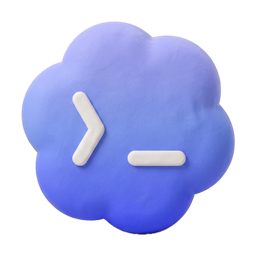
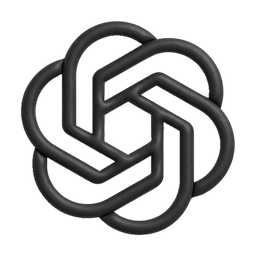
Codex's coin is OpenAI's knot in charcoal clay; Android decisions settled; site and docs offer the APK
- Codex: OpenAI's six-band knot (the author's call) replaces the cloud; master, every size, LOGOS.
- D178, D181, D182 settled (按建议: notifications wait, 以后再说 holds three days, the release
  key made once). The release keystore is in GitHub secrets; ANDROID_CERT_SHA256 is set.
- The site links the latest release's -android.apk when there is one, else keeps 'coming soon';
  README and docs say how to get the app.

diff --git a/apps/site/src/lib/github.ts b/apps/site/src/lib/github.ts
@@ -9,6 +9,8 @@ export interface RepoFacts {
   isPublic: boolean;
   /** Direct link to the latest release's .dmg, if a release with one exists. */
   dmgUrl: string | null;
+  /** Direct link to the latest release's Android app (Ducter-<v>-android.apk, D181), if it has one. */
+  apkUrl: string | null;
   version: string | null;
 }
 
@@ -25,13 +27,14 @@ async function get(url: string): Promise<any | null> {
 let cached: Promise<RepoFacts> | null = null;
 export function repoFacts(): Promise<RepoFacts> {
   cached ??= (async () => {
-    if (process.env.DUCTER_SITE_OFFLINE) return { isPublic: false, dmgUrl: null, version: null };
+    if (process.env.DUCTER_SITE_OFFLINE) return { isPublic: false, dmgUrl: null, apkUrl: null, version: null };
     const repo = await get(`https://api.github.com/repos/${REPO}`);
     const isPublic = !!repo && repo.private === false;
-    if (!isPublic) return { isPublic, dmgUrl: null, version: null };
+    if (!isPublic) return { isPublic, dmgUrl: null, apkUrl: null, version: null };
     const rel = await get(`https://api.github.com/repos/${REPO}/releases/latest`);
     const dmg = rel?.assets?.find((a: any) => typeof a?.name === "string" && a.name.endsWith(".dmg"));
-    return { isPublic, dmgUrl: dmg?.browser_download_url ?? null, version: rel?.tag_name ?? null };
+    const apk = rel?.assets?.find((a: any) => typeof a?.name === "string" && a.name.endsWith("-android.apk"));
+    return { isPublic, dmgUrl: dmg?.browser_download_url ?? null, apkUrl: apk?.browser_download_url ?? null, version: rel?.tag_name ?? null };
   })();
   return cached;
 }

diff --git a/tools/art/coins.py b/tools/art/coins.py
@@ -3,7 +3,7 @@
 
 A coin is not a disc with a logo printed on it: it is the agent's mark itself made as a small
 puffy clay object, in the same clay, light and camera as the rest of Ducter's art: Claude Code's
-starburst, Codex's cloud with its prompt, DeepSeek's whale, pi's blocks. The renders come from
+starburst, Codex's OpenAI knot, DeepSeek's whale, pi's blocks. The renders come from
 the clay pipeline (design/art/assets/prompts/_style_coins.md + coin_<id>.md, the official mark
 as a reference image), are cut out (design/art/assets/tools/cut.swift) and kept as masters in
 design/art/assets/alpha/coin_<id>.png. This script makes every size the apps load from them.

diff --git a/design/decisions.md b/design/decisions.md
@@ -484,11 +484,11 @@ DRAFT, for the author's review.
 | D175 | **The six calls of research/48 §4, decided with their proposed defaults** (the author: "仔细按建议推进"). (1) **One secret detector** (F7): what reaches a task and what renders find keys with one implementation (`redactWith` in `packages/protocol/src/redact.ts`); the brief guard is stricter (a long key with no digit counts too) and keeps exactly one kind of key: a Nowledge Mem connect code (`nmem_ct_…`) the user pasted in their own words that turn, as D152's scenario needs. Any other pasted key, a JWT, a bearer token, a password in a URL or `token=…` becomes **[secret removed …]** in the brief and in `task_send`. Guard: `packages/partner/test/secrets.test.ts` (every fixture key the screens hide is gone from a brief; the partner keeps no list of its own). (2) **Live re-verify Claude Code 2.1.322 and pi 1.5.1** against D135's checks with the cheapest model, on scratch state; `verified` is widened only for what passes (research/48 addendum). (3) **Tool-less one-shots** (F8): the judge and the digest writer run with no tools at all through a SessionSpec switch the adapter maps per harness, after one measured cheap call each. (4) **A persona or partner-tool change carries a fresh eval result** (F6): the eval gains W1–W6 (where / needs), `rule_save`, connections, browser tasks, `notice_rule` and Bridge X1 (fake Bridge) scenarios; one haiku run's results file is committed; the rule is in `AGENTS.md` and `design/release/README.md`. (5) **A two-tier partner tool list: not now**; revisit when the list passes 30 tools or 32K chars (`todo.md`; the G2 ceiling forces the conversation). (6) **Principle 17 reads "Mem writes Ducter itself makes"**: task sessions now write through the user's own plugin (D168), which records its own `source_app`; a todo asks Mem for orchestrator attribution on plugin writes. | U (2026-11-10), research/48 §4 | `packages/protocol/src/redact.ts`, `packages/partner/src/partner.ts`; the rest as each part lands (research/48 addendum) |
 | D176 | **The iPhone app is one universal app for iPhone, iPad and iPhone Duo, and the client lays itself out from the width it has, never from the device.** (the author: "TestFlight app 不支持 iPad 和 iPhone duo，你能支持一下么"). (1) **The app** (`apps/ios`): device family iPhone + iPad (the app and DucterNotify); iPad in all four orientations, iPhone in portrait and both landscapes; no `UIRequiresFullScreen`, so Split View, Slide Over and Stage Manager size it freely; one scene (one web view, one conversation; a second window is not offered); the same icon (Xcode makes the iPad sizes from the one 1024 source); the web view asks for the mobile page on an iPad too (WebKit otherwise asks as a Mac, and pairing named the iPad "Browser"); the connect and can't-reach screens keep a 480-wide column. Rotation and resizing keep the page: same web view, same route, drafts and open sheet. (2) **The client** (`apps/web`): from 1000 CSS px wide (an iPad held across, 1133–1366; a 13" iPad upright, 1024–1032; a wide browser window) two panes: the conversation on the left at its 720 reading measure, and beside it on a hairline On hand, or the task opened from it (40% of the width, 400–560). On hand's header names it (no 回到对话 / Back to the conversation: the conversation never left) and the conversation's 手头的事 button is gone; an opened task goes back to **手头的事 / On hand**. Under 1000, one column at most 640, as on a phone: Split View's thirds, halves and two-thirds, an 11" iPad upright, both displays of iPhone Duo. The page follows `matchMedia` and changes in place. Side safe-area insets are kept (a phone on its side, Duo's vertical bar). From 700 × 640 a sheet stands centered as an iPad form sheet, without its grab. Hover styles also apply with a trackpad (`any-hover`); a touch screen with a trackpad is not "coarse". (3) **Keys:** the Mac's set (D71): ⌘N New task (inside a task, at its place), ⌘1 the conversation, ⌘2 On hand, ⌘3 your devices, ⌘4 the partner, ⌘, Settings, ⌘K the composer of the level shown; in the app as menu commands (the iPad's menu bar and ⌘-hold list) that the page performs (`window.ducterCommand`); Esc goes up one level everywhere (browsers keep their own ⌘ keys). (4) **Words:** on an iPad, 这台手机 / This phone reads **这台 iPad / This iPad**; it pairs as **iPad · Ducter** or **iPad · Safari** (Safari on an iPad asks as a Mac: a Mac with a touch screen is an iPad); its kind is **你的 iPad · 用 Ducter app 连着 / Your iPad · through the Ducter app**. (5) **iPhone Duo** (Apple's foldable, September 2026) shows an app full-screen only when it is built with the iOS 27.1 SDK; older SDKs letterbox it (research/49). CI builds with Xcode 27.1 when the runner has it (`DUCTER_XCODE`), else warns. Not run on a Duo simulator (this Mac has Xcode 26.3). *Recorded as built, for the author's review* | U (2026-11-10), research/49 | `apps/ios` (project.yml, Info.plist, DucterApp.swift, WebShell.swift), `apps/web/src/wide.ts`, `main.tsx`, `views.tsx`, `static/app.css`, `scripts/ci/testflight.sh`, `design/release/ios.md`, `design/ui.md`, `design/product-model.md`, `docs/phone.md` |
 | D177 | **Settled 2026-11-10 (built, measured; the author confirmed the three open calls). pi and DeepSeek Harness may be what the partner thinks with, each holding the read-only partner by its own mechanism, after both passed the full partner eval above the existing partner.** (1) **Read-only, enforced, not asked** (principle 6): pi runs with an allowlist, `--tools read,grep,find,ls,mcp__*` (the pattern keeps OAR's MCP tools; without it they vanish), plus bash/edit/write excluded by name. DeepSeek Harness, which OAR refuses tool denial for and whose partner wrote a file and ran a command when asked (research/50 §2), runs in a Ducter-owned home whose profile layer (`$DSH_HOME/profiles/acp/cordis.patch.yml`, `DSH_PROFILE` in harness-facts) disables every tool row that runs, writes, delegates or plans, keeps `tool-fs`'s `read`, and sets `DSH_PERMISSION_MODE=read-only` underneath; Ducter's MCP tools still answer. The probe fails on a DSH tool row the layer doesn't name. (2) **DSH's prompt is the system prompt**: the layer's `system-prompt` row (`includeHarnessIdentity: false`, `personaPrefix`), not AGENTS.md, which DSH sends as user-message "workspace instructions"; a prompt with `{{` falls back to AGENTS.md. (3) **DSH's compactor** fires at the plan's point as a fraction of the model's 1M window, with `retainTokens` a quarter of it (its default 16% retention at or above the threshold silently rejects the plugin: no compaction at all); tool-less one-shots drop every tool row; the session-log upload to DeepSeek (`dsh_session_log`) is off in Ducter-owned homes, so only the model call leaves. One home per setup (`<dataDir>/harness/dsh/<hash>`), so a session resumes where it was and a one-shot never rewrites the partner's files. A DSH task in the user's own home keeps the user's setup. (4) **pi's window** has no per-session knob; Ducter's re-cut at 120K bounds the partner (pi reports its context every turn). (5) **The eval** (74 scenarios, haiku judge, same persona): DeepSeek Harness + deepseek-flash 68/74, pi + deepseek/deepseek-flash 62/74, Claude Code + haiku 52/74 (LATEST), safety 4/4 and honesty 3/3 on all three; the eval now counts a tool call from its end event when it had no streamed head (rule_save and notice_rule were never counted on any harness before). (6) **Persona:** rule 1 gains "what a site or the web says now … is never a quick fact: it is a look-up, never said from memory" (all three answered "the latest Bun version" unseen before; DSH and pi no longer do). (7) **Models offered:** DeepSeek's `deepseek-v4-pro` (smart) and `deepseek-flash` (fast) on both, on pi only when pi lists them. (8) **The fallback brain** (amends D150 (4)): with nothing chosen and Claude Code not signed in on the home, the first signed-in of Codex, DeepSeek Harness, pi (`PARTNER_FALLBACK`; a plan before a key paid by use, then by the eval). Codex keeps **自动选的：只有 Codex 登录了**; another agent says **自动选的：Claude Code 没登录 / Picked for you: Claude Code isn't signed in** (`why: "only_signed_in"`), which stays true when several are signed in. (9) **Keys unchanged (D102):** pi on DeepSeek signs in with its own `/login`; the DeepSeek key in `keys.env` still reaches DeepSeek Harness only. (10) **Versions:** DSH 0.2.2-rc.1 verified; a version keeps its prerelease tag and orders before its release. **The author's three calls:** (a) **No shared DeepSeek key** (D102 holds): each agent keeps the sign-in it owns, so revoking or rotating one never silently breaks the other, and a key Ducter holds reaches exactly one program. (b) **DSH's session-log upload stays off, with no setting**: the partner reads the user's accounts, memory and conversations; sending the whole log to a third party beyond the model call buys the user nothing and spends trust (放心), and a switch would be a concept to learn for no gain. (c) **Fallback order Codex, DeepSeek Harness, pi**: a flat subscription before a key paid per use (no cost surprise), then the eval (68 over 62); a home with only a DeepSeek key still gets a partner instead of none, and the reason line says it was picked | U (the request), L (research/50) | `packages/protocol/src/{harnesses,harness-facts,index,internal}.ts`, `packages/runner/src/oar.ts`, `packages/core/src/{brain,candidates,core}.ts`, `packages/partner/src/persona.ts`, `packages/partner/eval/run.ts`, `scripts/probe-harnesses.ts`, `apps/web/src/{views.tsx,i18n.ts}`, `apps/desktop/internal/{views/loadout.go,i18n/settings.go,protocol/protocol.go}`, tests, `design/system.md`, `design/harnesses.md`, `design/conversation.md`, `design/product-model.md`, `docs/settings.md`, `docs/faq.md`, `CHANGELOG.md` |
-| D178 | **Draft for review (built, verified in a foldable emulator). The Android app is a thin native shell around the page, the iPhone app's shape on Android: Kotlin and the system WebView, no Expo, Tauri or TWA.** (1) **Why:** the client is one page (`apps/web`) that the iPhone app already hosts; a native UI (Lorca's Expo app) would duplicate it, a WebView inside React Native or Tauri adds a JS or Rust toolchain for nothing the page lacks, and a Trusted Web Activity needs Chrome (absent on many phones sold in China), asset links on every home's own origin and has no bridge (research/51 §3). (2) **What the app adds, and only that:** the connect screen (scan the `ducter pair` QR code with zxing, paste a link, or type address and code; the iPhone app's words), connecting / can't-reach screens with the partner, the page edge to edge with its `--safe-*` variables set from Android's insets, the keyboard shrinking the page so the composer stays above it, Back going up the page's history, links that aren't this Ducter opening outside, haptics, dark mode from the system, and the bridge: `window.ducterNative = {platform: "android", version, appId}` and `window.ducterBridge.postMessage(m) → Promise`, both limited to the paired home's origin (`WebViewCompat.addWebMessageListener` + a document-start script), the same messages as iOS (`hello`, `haptic`, `push.*`, plus `update.check`). (3) **Ids:** `co.nowledge.ducter.android` (`.dev` for debug builds, which sit beside it); minSdk 26, target/compile 36; one universal APK (no native code; 2.9 MB). It pairs as **Android phone · Ducter**; its device card says **你的安卓手机 · 用 Ducter app 连着 / Your Android phone · through the Ducter app**. (4) **Not recreated** by turning, folding, unfolding or resizing (it declares those changes), so the page keeps what you typed, the route and the open sheet; light/dark does recreate it. (5) **The lesson the iPhone app taught:** the shell loads the page from the home, so an app newer than its home shows the home's older page: everything the app must say without the page (connect, can't reach, an update) is native. | U, R51 | `apps/android`, `design/android.md`, `apps/web/src/native.ts`, `design/release/android.md`, `docs/phone.md` |
+| D178 | **Settled 2026-11-10 (the author: 按建议; built, verified in a foldable emulator). The Android app is a thin native shell around the page, the iPhone app's shape on Android: Kotlin and the system WebView, no Expo, Tauri or TWA.** (1) **Why:** the client is one page (`apps/web`) that the iPhone app already hosts; a native UI (Lorca's Expo app) would duplicate it, a WebView inside React Native or Tauri adds a JS or Rust toolchain for nothing the page lacks, and a Trusted Web Activity needs Chrome (absent on many phones sold in China), asset links on every home's own origin and has no bridge (research/51 §3). (2) **What the app adds, and only that:** the connect screen (scan the `ducter pair` QR code with zxing, paste a link, or type address and code; the iPhone app's words), connecting / can't-reach screens with the partner, the page edge to edge with its `--safe-*` variables set from Android's insets, the keyboard shrinking the page so the composer stays above it, Back going up the page's history, links that aren't this Ducter opening outside, haptics, dark mode from the system, and the bridge: `window.ducterNative = {platform: "android", version, appId}` and `window.ducterBridge.postMessage(m) → Promise`, both limited to the paired home's origin (`WebViewCompat.addWebMessageListener` + a document-start script), the same messages as iOS (`hello`, `haptic`, `push.*`, plus `update.check`). (3) **Ids:** `co.nowledge.ducter.android` (`.dev` for debug builds, which sit beside it); minSdk 26, target/compile 36; one universal APK (no native code; 2.9 MB). It pairs as **Android phone · Ducter**; its device card says **你的安卓手机 · 用 Ducter app 连着 / Your Android phone · through the Ducter app**. (4) **Not recreated** by turning, folding, unfolding or resizing (it declares those changes), so the page keeps what you typed, the route and the open sheet; light/dark does recreate it. (5) **The lesson the iPhone app taught:** the shell loads the page from the home, so an app newer than its home shows the home's older page: everything the app must say without the page (connect, can't reach, an update) is native. | U, R51 | `apps/android`, `design/android.md`, `apps/web/src/native.ts`, `design/release/android.md`, `docs/phone.md` |
 | D180 | **A connection's catalog is read from what its tools take, never assumed by name; one Ducter can't read any more becomes a plain MCP server, not a dead one.** OOMOL Hosted renamed its catalog (2026-11: `search_actions` → `connector_search_actions` taking `q`, `get_action_guide` → `connector_get_action` answering `action.operationType`, `execute_action` → `connector_execute_action` picking an account by `appId`/`alias` and wrapping the result in `output`), and every mail read on the author's home failed with "unknown MCP tool". (1) **Inferred, deterministic:** from the server's tool list, execute = the tool taking `actionId` and `input`, guide = `actionId` without `input`, search = a search tool taking `q` or `query`; the account argument is whichever of `appId` (an account label is resolved to its app id through `/v1/apps`, else sent as `alias`), `alias`, `connectionName` execute takes; names only break ties; re-read with the five-minute recheck. (2) **Not left to the model:** the read/write gate stays Ducter's (principle 6); a server's descriptions are untrusted text, so no model reads them to decide what is a write, and re-deriving an adapter every turn would cost and drift. (3) **Degrades to asking, never to silence:** a list that no longer reads as a catalog is used as a plain MCP server: its own tools, a write unless `readOnlyHint`, so the worst case is a Go. (4) Verified live against connector.oomol.com from the author's key (accounts, search, read/write, a read on each Gmail account). | U ("我发现它读不了我的邮件", "我们是不是不应该假设他们接口不变？而是应该 agentic 去设计和实现？"), L (hel's partner session: `unknown MCP tool: search_actions`) | `packages/core/src/connections.ts`, `packages/core/test/{connections.test.ts,fake-mcp.ts}`, `design/connectors.md` |
-| D181 | **Draft for review (built, verified against a fake release). The Android app ships as `Ducter-<version>-android.apk` on the one GitHub Release and updates itself from it, with a checksum and a same-key check; no store; notifications wait.** (1) **Release:** `release.yml`'s `android` job builds and signs with the release key from secrets (`ANDROID_KEYSTORE_BASE64`, `ANDROID_KEYSTORE_PASSWORD`, `ANDROID_KEY_ALIAS`, `ANDROID_KEY_PASSWORD`), checks package, versionName and that the certificate is not a debug key and equals the repository variable `ANDROID_CERT_SHA256`, and attaches the APK (listed in `SHA256SUMS.txt`); without the keystore secret the job warns and the release ships without Android. A Gradle release build without the key refuses to build (Mem's postmortem: debug-signed APKs install nowhere and can't be updated). `versionCode = ((major·1000+minor)·1000+patch)·100 + (pre-release number ≤ 98, or 99)`, so every tag rises. (2) **Updating:** at launch and back in front, at most every 6 h, after the page's hello (or 3 s after a page that never says it), the app reads `api.github.com/repos/wey-gu/ducter/releases/latest` (drafts and pre-releases never), compares versions, and only when newer and not put off shows one card, in the half past a fold: **有新版本 {v} / Update to {v}**, the release's own whats-new lines in the page's language (D172's block), **更新 / Update** and **以后再说 / Later** (that version waits 3 days; a newer one comes at once). Long-press the app icon › **检查更新 / Check for updates** asks now and also says **已经是最新的 / Up to date**. Update: download from GitHub's hosts only (https, redirects checked), progress in words (**在下载 {v}… n% · 在核对 {v}…**), the SHA-256 from the asset's `digest` else `SHA256SUMS.txt`, the size, then the APK's package, a higher versionCode and the same signing certificate as this app, else nothing is handed over and the card says why; the first time, Android's "Install unknown apps" switch, explained in one line with **去打开 / Open the setting**, and the update continues on return; then a `PackageInstaller` session asking for no extra tap where Android allows (12+). Android closes the app to replace it (**在安装 {v}… 装好后 Ducter 会关一下，再打开就是新的**); the next launch says **回来了，现在是 {v} / Back, now on {v}** once (D148's words). (3) **Owed by the author:** the release keystore (created once, kept forever: a lost key means every phone reinstalls and pairs again), its secrets and certificate variable, and Android developer verification of `co.nowledge.ducter.android` with that certificate (enforced in Brazil, Indonesia, Singapore and Thailand since 2026-09-30, everywhere in 2027). (4) **Notifications:** the WebView has no Web Push; FCM would make Google Play services and a Firebase project a requirement. Not in this version: the page says **安卓 App 这一版还不能发通知；打开它就能看到要你看的事 / The Android app can't send notifications in this version yet; open it to see what needs you**; Chrome on Android keeps Web Push as today. Next (todo): UnifiedPush, whose endpoints take the home's existing Web Push, with an embedded FCM distributor only where Play services exist. | U, R51 | `apps/android` (`Updater.kt`, `InstallReceiver.kt`), `.github/workflows/release.yml`, `.github/workflows/ci.yml`, `design/release/android.md`, `design/release/README.md`, `todo.md` |
-| D182 | **Draft for review (built, verified on the emulator's Pixel 9 Pro Fold). On a foldable the panes meet at the fold, never across it.** D176's width rule stands; the fold adds one. (1) **Book** (the fold runs top to bottom, flat or half-open, each side at least 320 CSS px): the conversation from the left edge to the fold, On hand or the opened task from the fold to the right, a hinge's width left empty; a 640 column laid across the crease would put it under the words. (2) **Tabletop** (the fold runs across and the phone is half-open): the conversation above the fold, On hand below it at the conversation's measure. A flat fold across a tall open screen is one tall screen: one column. (3) **Folded** (the cover screen): one column as on any phone; nothing reloads. (4) **Where the fold is:** the Android app reads Jetpack WindowManager's `FoldingFeature` and gives the page `window.ducterFold = {axis, state, start, end, separating, occluding}` in CSS px with a `ducterfold` event (the emulator's WebView 134 has no viewport segments); without the app the page reads the browser's Viewport Segments API (Chrome 138+). The page marks `data-split` and `--fold-a` / `--fold-gap`; each pane keeps only its outer insets. (5) **The app's own screens follow the same rule:** the connect screen puts the partner on one side and the form on the other; connecting and can't-reach keep to the first half; an update card stands in the half past the fold. | U, R51 | `apps/web/src/fold.ts`, `wide.ts`, `main.tsx`, `static/app.css`, `apps/android` (`Core.kt` Fold, `MainActivity.kt`), `design/ui.md`, `design/android.md`, `docs/phone.md` |
-| D183 | **Each AI agent's coin is that agent's real mark sculpted as a small clay object: Claude Code's starburst, Codex's cloud with its `>_`, DeepSeek's whale, pi's four blocks.** (1) **Why the mark, not the name:** a mark is read before a word; at the tray's 20–40 points a printed name was a smudge (D146 needed a plain body below 72 points, so three of four coins looked like coloured buttons), while a sculpted silhouette stays itself at 20 points, on light and dark. The author accepts using the marks: a small open-source project naming which agent does what, the name always beside it, no endorsement implied (`design/art/LOGOS.md`). (2) **Why sculpted, not a mark on a disc:** two treatments were rendered side by side at the real sizes (`.shots/coins/`): the D146 disc with the mark raised in relief on its dome, and the mark itself as a free-standing clay toy. The relief shrank each mark to a third of the coin and made four near-identical discs; the free-standing marks read at every size, are told apart by silhouette alone, and look like the rest of Ducter's world (the character, the devices are objects, not badges). The family is held by one clay, one light, one camera and one optical size, not by one outline. (3) **One image per look:** the coin (`coin_<id>`) and the unavailable coin (`coin_<id>_off`: the same object in one grey clay, its form and light kept); no plain body by size and no shared grey body, since the object never stops reading. In the dark the grey coin sits back to 60% (it is the whole coin now, no print to protect). (4) **Motion (D77, clay only):** while that agent's task works, the coin rocks on its base 5° each way (4.2 s), replacing the rim sheen, which only fitted a round coin; an update landing pops it with one small wiggle; waiting on you, the 2-point bob (2.6 s); still under reduced motion. (5) **Pipeline:** prompts `design/art/assets/prompts/_style_coins.md` + `coin_<id>.md` with the official mark as a reference (downloaded to the gitignored `design/art/assets/marks/`, never committed), masters `design/art/assets/alpha/coin_<id>.png`, sizes by `tools/art/coins.py`; the site encodes from the masters. If an owner objects, that coin goes back to the generic clay token with the name beside it | U (the request, 2026-11-10), L (the treatment, after the side-by-side) | `tools/art/coins.py`, `design/art/LOGOS.md`, `design/art/assets/{batch_coins.json,prompts/,alpha/}`, `apps/desktop/internal/views/{coins,devicecard}.go` (and every `coinArt` caller), `apps/web/src/coin.tsx`, `apps/web/static/app.css`, `packages/core/src/web.ts`, `apps/site/{scripts/art.mjs,src/lib/isles.ts,src/pages/index.astro}`, `apps/promo/{scripts/assets.ts,src/scenes/World.tsx}`, `design/prototypes/bridge-asks.html`, `design/ui.md` |
+| D181 | **Settled 2026-11-10 (the author: 按建议, with the defaults: notifications wait for UnifiedPush, 以后再说 holds a version back three days, the release key made once and kept by the author; built, verified against a fake release). The Android app ships as `Ducter-<version>-android.apk` on the one GitHub Release and updates itself from it, with a checksum and a same-key check; no store; notifications wait.** (1) **Release:** `release.yml`'s `android` job builds and signs with the release key from secrets (`ANDROID_KEYSTORE_BASE64`, `ANDROID_KEYSTORE_PASSWORD`, `ANDROID_KEY_ALIAS`, `ANDROID_KEY_PASSWORD`), checks package, versionName and that the certificate is not a debug key and equals the repository variable `ANDROID_CERT_SHA256`, and attaches the APK (listed in `SHA256SUMS.txt`); without the keystore secret the job warns and the release ships without Android. A Gradle release build without the key refuses to build (Mem's postmortem: debug-signed APKs install nowhere and can't be updated). `versionCode = ((major·1000+minor)·1000+patch)·100 + (pre-release number ≤ 98, or 99)`, so every tag rises. (2) **Updating:** at launch and back in front, at most every 6 h, after the page's hello (or 3 s after a page that never says it), the app reads `api.github.com/repos/wey-gu/ducter/releases/latest` (drafts and pre-releases never), compares versions, and only when newer and not put off shows one card, in the half past a fold: **有新版本 {v} / Update to {v}**, the release's own whats-new lines in the page's language (D172's block), **更新 / Update** and **以后再说 / Later** (that version waits 3 days; a newer one comes at once). Long-press the app icon › **检查更新 / Check for updates** asks now and also says **已经是最新的 / Up to date**. Update: download from GitHub's hosts only (https, redirects checked), progress in words (**在下载 {v}… n% · 在核对 {v}…**), the SHA-256 from the asset's `digest` else `SHA256SUMS.txt`, the size, then the APK's package, a higher versionCode and the same signing certificate as this app, else nothing is handed over and the card says why; the first time, Android's "Install unknown apps" switch, explained in one line with **去打开 / Open the setting**, and the update continues on return; then a `PackageInstaller` session asking for no extra tap where Android allows (12+). Android closes the app to replace it (**在安装 {v}… 装好后 Ducter 会关一下，再打开就是新的**); the next launch says **回来了，现在是 {v} / Back, now on {v}** once (D148's words). (3) **Owed by the author:** the release keystore (created once, kept forever: a lost key means every phone reinstalls and pairs again), its secrets and certificate variable, and Android developer verification of `co.nowledge.ducter.android` with that certificate (enforced in Brazil, Indonesia, Singapore and Thailand since 2026-09-30, everywhere in 2027). (4) **Notifications:** the WebView has no Web Push; FCM would make Google Play services and a Firebase project a requirement. Not in this version: the page says **安卓 App 这一版还不能发通知；打开它就能看到要你看的事 / The Android app can't send notifications in this version yet; open it to see what needs you**; Chrome on Android keeps Web Push as today. Next (todo): UnifiedPush, whose endpoints take the home's existing Web Push, with an embedded FCM distributor only where Play services exist. | U, R51 | `apps/android` (`Updater.kt`, `InstallReceiver.kt`), `.github/workflows/release.yml`, `.github/workflows/ci.yml`, `design/release/android.md`, `design/release/README.md`, `todo.md` |
+| D182 | **Settled 2026-11-10 (the author: 按建议; built, verified on the emulator's Pixel 9 Pro Fold). On a foldable the panes meet at the fold, never across it.** D176's width rule stands; the fold adds one. (1) **Book** (the fold runs top to bottom, flat or half-open, each side at least 320 CSS px): the conversation from the left edge to the fold, On hand or the opened task from the fold to the right, a hinge's width left empty; a 640 column laid across the crease would put it under the words. (2) **Tabletop** (the fold runs across and the phone is half-open): the conversation above the fold, On hand below it at the conversation's measure. A flat fold across a tall open screen is one tall screen: one column. (3) **Folded** (the cover screen): one column as on any phone; nothing reloads. (4) **Where the fold is:** the Android app reads Jetpack WindowManager's `FoldingFeature` and gives the page `window.ducterFold = {axis, state, start, end, separating, occluding}` in CSS px with a `ducterfold` event (the emulator's WebView 134 has no viewport segments); without the app the page reads the browser's Viewport Segments API (Chrome 138+). The page marks `data-split` and `--fold-a` / `--fold-gap`; each pane keeps only its outer insets. (5) **The app's own screens follow the same rule:** the connect screen puts the partner on one side and the form on the other; connecting and can't-reach keep to the first half; an update card stands in the half past the fold. | U, R51 | `apps/web/src/fold.ts`, `wide.ts`, `main.tsx`, `static/app.css`, `apps/android` (`Core.kt` Fold, `MainActivity.kt`), `design/ui.md`, `design/android.md`, `docs/phone.md` |
+| D183 | **Each AI agent's coin is that agent's real mark sculpted as a small clay object: Claude Code's starburst, Codex's OpenAI knot (the author's call: "codex 请用 openai icon"), DeepSeek's whale, pi's four blocks.** (1) **Why the mark, not the name:** a mark is read before a word; at the tray's 20–40 points a printed name was a smudge (D146 needed a plain body below 72 points, so three of four coins looked like coloured buttons), while a sculpted silhouette stays itself at 20 points, on light and dark. The author accepts using the marks: a small open-source project naming which agent does what, the name always beside it, no endorsement implied (`design/art/LOGOS.md`). (2) **Why sculpted, not a mark on a disc:** two treatments were rendered side by side at the real sizes (`.shots/coins/`): the D146 disc with the mark raised in relief on its dome, and the mark itself as a free-standing clay toy. The relief shrank each mark to a third of the coin and made four near-identical discs; the free-standing marks read at every size, are told apart by silhouette alone, and look like the rest of Ducter's world (the character, the devices are objects, not badges). The family is held by one clay, one light, one camera and one optical size, not by one outline. (3) **One image per look:** the coin (`coin_<id>`) and the unavailable coin (`coin_<id>_off`: the same object in one grey clay, its form and light kept); no plain body by size and no shared grey body, since the object never stops reading. In the dark the grey coin sits back to 60% (it is the whole coin now, no print to protect). (4) **Motion (D77, clay only):** while that agent's task works, the coin rocks on its base 5° each way (4.2 s), replacing the rim sheen, which only fitted a round coin; an update landing pops it with one small wiggle; waiting on you, the 2-point bob (2.6 s); still under reduced motion. (5) **Pipeline:** prompts `design/art/assets/prompts/_style_coins.md` + `coin_<id>.md` with the official mark as a reference (downloaded to the gitignored `design/art/assets/marks/`, never committed), masters `design/art/assets/alpha/coin_<id>.png`, sizes by `tools/art/coins.py`; the site encodes from the masters. If an owner objects, that coin goes back to the generic clay token with the name beside it | U (the request, 2026-11-10), L (the treatment, after the side-by-side) | `tools/art/coins.py`, `design/art/LOGOS.md`, `design/art/assets/{batch_coins.json,prompts/,alpha/}`, `apps/desktop/internal/views/{coins,devicecard}.go` (and every `coinArt` caller), `apps/web/src/coin.tsx`, `apps/web/static/app.css`, `packages/core/src/web.ts`, `apps/site/{scripts/art.mjs,src/lib/isles.ts,src/pages/index.astro}`, `apps/promo/{scripts/assets.ts,src/scenes/World.tsx}`, `design/prototypes/bridge-asks.html`, `design/ui.md` |
 
 ## 2026-11-10: pi and DeepSeek Harness carry the partner (the author: "下一个版本我们支持 deepseek harness 和 pi 的 harness adapter 支持 main ai，要有一样的或者更高的水准")
 

diff --git a/docs/install.md b/docs/install.md
@@ -13,7 +13,7 @@ There are four ways to have Ducter, and you can mix them:
 | [The Mac app](#the-mac-app) | Most people. One line in Terminal, or a download | Ready |
 | [The `ducter` command](#the-ducter-command) | People who live in Terminal | Ready |
 | [A Linux server](#a-linux-server-that-stays-on) | Keeping your partner working while your Mac sleeps | Ready |
-| [Your phone or iPad](#your-phone-or-ipad) | Answering decisions and checking results on the go | iPhone and iPad: one app, in public beta (TestFlight). Android: ready in the phone's browser; the Android app is coming soon |
+| [Your phone or iPad](#your-phone-or-ipad) | Answering decisions and checking results on the go | iPhone and iPad: one app, in public beta (TestFlight). Android: the Ducter app from each GitHub release, or the phone's browser |
 
 Whichever you choose, you need an AI agent, **Claude Code, Codex, pi or DeepSeek Harness**, installed and
 signed in on the computer that does the work ([which agents](faq.md#which-ai-agents-does-it-work-with)).
@@ -312,8 +312,11 @@ TestFlight: [join the beta](https://testflight.apple.com/join/Z4GvWt7t), install
 asked, then open Ducter and type the address and code from `ducter pair`. Beta builds can change
 and expire after 90 days; TestFlight offers the next one.
 
-**Android.** Open the address in your phone's browser; you can answer **Go** or **Hold** straight
-from the notification. The Android app is coming soon.
+**Android.** Download `Ducter-<version>-android.apk` from the
+[latest release](https://github.com/wey-gu/ducter/releases/latest), allow your browser to install
+apps when Android asks, then scan the code from `ducter pair` or paste its link. The app updates
+itself from then on ([more](phone.md#the-android-app)). Or open the address in your phone's
+browser; you can answer **Go** or **Hold** straight from the notification.
 
 Everything about the phone and the iPad, including notifications and quiet hours, is on
 [Your phone](phone.md).

diff --git a/design/art/assets/prompts/coin_codex.md b/design/art/assets/prompts/coin_codex.md
@@ -1,1 +1,1 @@
-The Codex mark from the reference, sculpted as a single free-standing puffy clay object, like a squishy toy: the scalloped cloud-blossom shape as a thick, inflated clay cushion in periwinkle-to-blue clay (#A9A6FF top fading to #4B5BFF bottom, a gentle matte colour shift), and on its face, raised in white clay, the terminal prompt symbol: a chevron ">" and an underscore "_" exactly placed as in the reference. It stands upright facing the viewer, thick and chunky.
+The OpenAI mark from the reference (Codex is OpenAI's agent), sculpted as a single free-standing puffy clay object, like a squishy toy: the six interlocking rounded bands that weave into the hexagonal knot, each band a thick inflated clay rope in soft charcoal ink clay (#2B2B2E, matte, the faintest warm lift on top faces), the woven over-and-under crossings kept exactly as in the reference, the open hexagonal centre left open. It stands upright facing the viewer, thick and chunky.

diff --git a/design/art/LOGOS.md b/design/art/LOGOS.md
@@ -9,7 +9,7 @@ that the owner endorses or partners with Ducter.
 | Agent | The mark the coin is sculpted from | Reference used (downloaded, never committed) |
 |---|---|---|
 | Claude Code | Anthropic's Claude starburst, terracotta `#D97757` | Wikimedia Commons, `Claude_AI_symbol.svg` |
-| Codex | OpenAI's Codex mark: the scalloped cloud with `>_`, periwinkle to blue | LobeHub icons (`@lobehub/icons-static-svg`, `codex-color.svg`), which redraws the mark OpenAI ships in the Codex app |
+| Codex | OpenAI's mark, the six-band woven knot (Codex is OpenAI's agent; the author chose it over the Codex cloud), in charcoal clay | LobeHub icons (`@lobehub/icons-static-png@1.75.0`, `light/openai.png`) |
 | DeepSeek Harness | DeepSeek's whale, `#4D6BFE` | LobeHub icons, `deepseek-color.svg` (the same whale as `deepseek-ai`'s GitHub avatar) |
 | pi | pi's four-block logo (salmon, teal, butter) | pi's press kit, <https://pi.dev/logo.svg> |
 

diff --git a/README.md b/README.md
@@ -47,7 +47,7 @@
 | **Mac** | The desktop app, Apple silicon. Ducter can live here and run tasks here. |
 | **Linux server** | x64 or arm64, at home or in the cloud. Runs as a service and stays on. |
 | **iPhone and iPad** | One app, in public beta on [TestFlight](https://testflight.apple.com/join/Z4GvWt7t). On a wide iPad, On hand stands beside the conversation. |
-| **Android** | In your phone's browser today, answering Go or Hold from the notification. The Android app is coming soon. |
+| **Android** | The Ducter app, from each [GitHub release](https://github.com/wey-gu/ducter/releases/latest); it updates itself, and a foldable opened like a book shows the conversation and On hand on either side of the fold. Or your phone's browser. |
 | **Terminal** | The `ducter` command, on the Mac or the server. |
 
 A phone needs an address it can reach from anywhere, which today means Ducter on a server with

diff --git a/docs/faq.md b/docs/faq.md
@@ -33,8 +33,8 @@ is coming soon; until then it goes in the key file (see [Install](install.md)).
 
 The app runs on Macs with Apple silicon. Ducter also runs on a Linux server, which you reach
 from your Mac or your phone. Windows isn't supported. On iPhone and iPad there's one app, in
-public beta through [TestFlight](https://testflight.apple.com/join/Z4GvWt7t). On Android, Ducter
-opens in your phone's browser; the Android app is coming soon.
+public beta through [TestFlight](https://testflight.apple.com/join/Z4GvWt7t). On Android there's the
+Ducter app, from each release on GitHub, and it updates itself; any phone's browser works too.
 
 ### Where do I download it?
 

diff --git a/design/release/android.md b/design/release/android.md
@@ -62,7 +62,7 @@ second copy offline).
 ```sh
 keytool -genkeypair -keystore ducter-android-release.p12 -storetype PKCS12 \
   -alias ducter -keyalg RSA -keysize 4096 -validity 36500 \
-  -dname "CN=Nowledge Labs, O=Nowledge Labs LLC"
+  -dname "CN=Ducter, O=Nowledge Labs"
 # keytool asks for the password; PKCS12 uses it for the key too.
 
 # The certificate's SHA-256 (for the variable below and for Android developer verification):

diff --git a/design/android.md b/design/android.md
@@ -1,6 +1,6 @@
 # The Android app
 
-Draft for review (D178–D182, research/51). Built in `apps/android`; how it is built and released
+Settled (D178, D181, D182; research/51). Built in `apps/android`; how it is built and released
 is in `release/android.md`.
 
 ## Who, what they feel, how it starts
